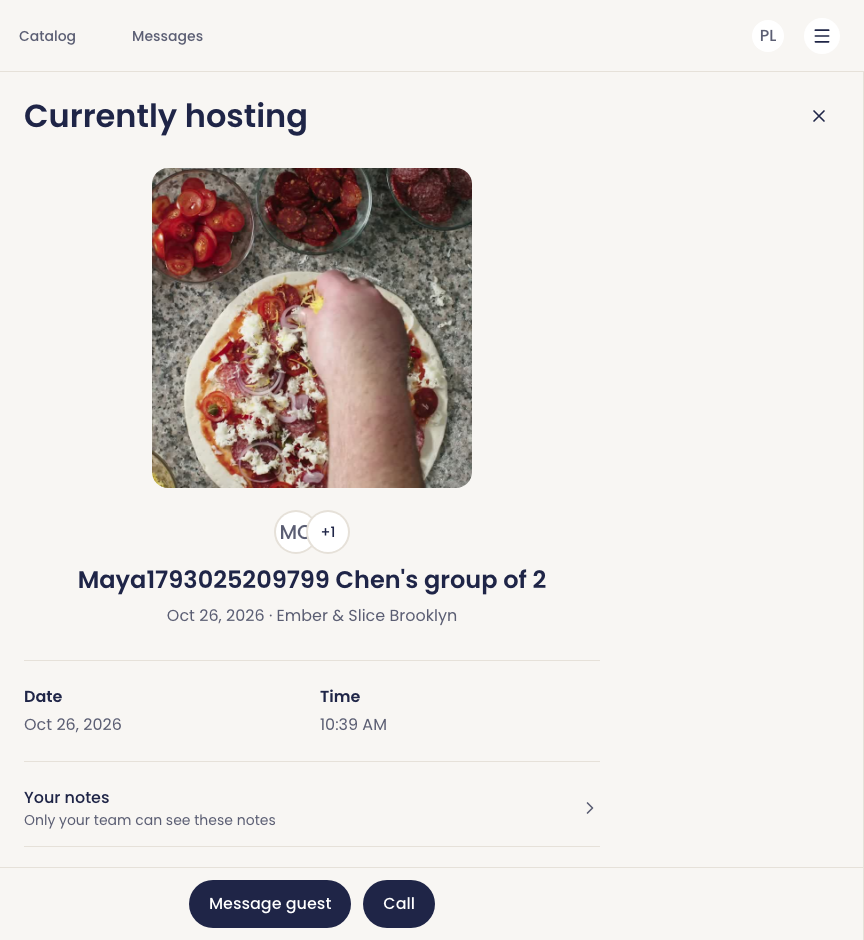
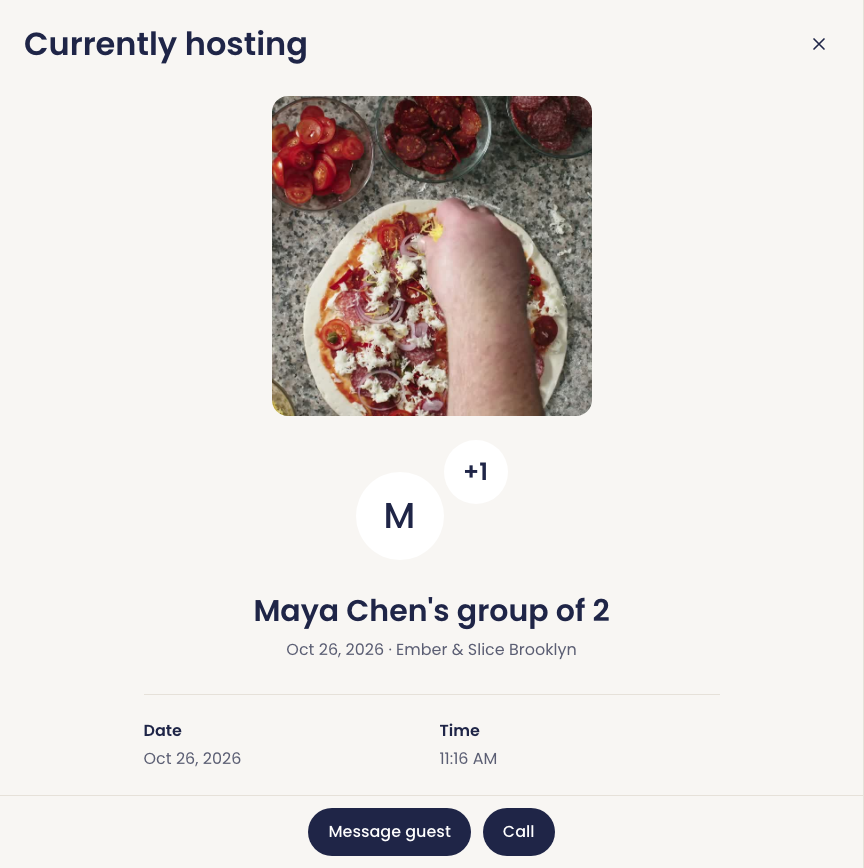
Match the host party header proportions and center its record column

diff --git a/tests/e2e/guest-thread-state.spec.ts b/tests/e2e/guest-thread-state.spec.ts
@@ -563,7 +563,7 @@ test('Today uses the CMS patterns and sends one reservation change request', asy
   await expectStatus(await page.request.put(reservationConfig,{data:{duration_minutes:60,expected_updated_at:policy.updated_at}}),200)
 
   const now = Date.now()
-  const firstName = `Maya${now}`
+  const firstName = 'Maya'
   const guestName = `${firstName} Chen`
   const guestEmail = `maya-${now}@example.test`
   const availability = await page.request.get('/api/public/reservations/availability', {
@@ -595,7 +595,7 @@ test('Today uses the CMS patterns and sends one reservation change request', asy
   const bookingIds: string[] = []
   for (const [name, email, plan] of [
     [guestName, guestEmail, todaySlot!],
-    [`Priya${now} Patel`, `priya-${now}@example.test`, now + 86_400_000],
+    ['Priya Patel', `priya-${now}@example.test`, now + 86_400_000],
   ] as const) {
     let date: string
     let time: string
@@ -658,7 +658,7 @@ test('Today uses the CMS patterns and sends one reservation change request', asy
   expect(localDateAt(new Date(upcomingCard!.occurrenceAt!), timezone) > localToday.date).toBe(true)
   expect(upcomingFeed.cards.some(card => card.id === `reservation:${bookingIds[0]}`)).toBe(false)
 
-  await page.getByTestId('today-card').filter({ hasText: reviewCard!.headline }).click()
+  await page.locator(`[data-card-id="${reviewCard!.id}"]`).click()
   await expect(page.getByRole('heading', { name: 'Currently hosting', exact: true })).toBeVisible()
   await expect(page.getByText(guestName, { exact: true }).first()).toBeVisible()
   await expect(page.getByText(guestEmail, { exact: true })).toHaveCount(0)
@@ -685,18 +685,34 @@ test('Today uses the CMS patterns and sends one reservation change request', asy
     await expect(picture).toHaveAttribute('src', summary.resourceImageUrl!)
     await expect(picture).toHaveJSProperty('complete', true)
     expect(await picture.evaluate(image => (image as HTMLImageElement).naturalWidth), 'The actual location picture loads').toBeGreaterThan(0)
-    const guestGroup = detailPanel.getByLabel(`${summary.partySize! - 1} other guests`, { exact: true }).locator('..')
+    const otherGuests = detailPanel.getByLabel(`${summary.partySize! - 1} other guests`, { exact: true })
+    const guestGroup = otherGuests.locator('..')
+    const mainAvatar = guestGroup.locator(':scope > [data-slot="root"]')
     await expect(guestGroup).toBeInViewport()
+    await expect(mainAvatar).toHaveCount(1)
     if (summary.guestImageUrl) await expect(guestGroup.getByAltText(summary.guestName!, { exact: true })).toHaveAttribute('src', summary.guestImageUrl)
+    else await expect(mainAvatar).toHaveText(summary.guestName!.trim().slice(0, 1))
     const pictureBounds = (await picture.boundingBox())!
     const guestBounds = (await guestGroup.boundingBox())!
+    const avatarBounds = (await mainAvatar.boundingBox())!
+    const countBounds = (await otherGuests.boundingBox())!
     const identityBounds = (await identity.boundingBox())!
+    const paneBounds = (await detailPanel.boundingBox())!
+    const paneCenter = paneBounds.x + paneBounds.width / 2
+    expect(avatarBounds.width, 'The guest is dominant within the group').toBeGreaterThan(countBounds.width)
+    expect(avatarBounds.height).toBeGreaterThan(countBounds.height)
+    expect(avatarBounds.height).toBe(avatarBounds.width)
+    expect(countBounds.height).toBe(countBounds.width)
+    expect(countBounds.y, 'The smaller guest count is raised beside the guest').toBeLessThan(avatarBounds.y)
+    expect(countBounds.x + countBounds.width / 2).toBeGreaterThan(avatarBounds.x + avatarBounds.width / 2)
     expect(pictureBounds.width, 'The property photo leads as a substantial cover, not an avatar thumbnail').toBeGreaterThanOrEqual(280)
     expect(pictureBounds.width).toBeLessThanOrEqual((await detailPanel.boundingBox())!.width)
     expect(pictureBounds.height).toBe(pictureBounds.width)
     expect(pictureBounds.y + pictureBounds.height).toBeLessThanOrEqual(guestBounds.y)
     expect(guestBounds.y + guestBounds.height).toBeLessThanOrEqual(identityBounds.y)
-    expect(Math.abs(pictureBounds.x + pictureBounds.width / 2 - identityBounds.x - identityBounds.width / 2)).toBeLessThanOrEqual(1)
+    expect(Math.abs(pictureBounds.x + pictureBounds.width / 2 - paneCenter)).toBeLessThanOrEqual(1)
+    expect(Math.abs(guestBounds.x + guestBounds.width / 2 - paneCenter)).toBeLessThanOrEqual(1)
+    expect(Math.abs(identityBounds.x + identityBounds.width / 2 - paneCenter), 'The record header centers in its visible pane').toBeLessThanOrEqual(1)
     expect(await identity.evaluate(element => getComputedStyle(element).textAlign)).toBe('center')
     const paymentInfo = detailPanel.getByRole('heading', { name: 'Payment info', exact: true })
     await expect(paymentInfo).toHaveCount(summary.payments?.length ?? 0)
@@ -732,7 +748,7 @@ test('Today uses the CMS patterns and sends one reservation change request', asy
     const footerBounds = (await footer.boundingBox())!
     const messageBefore = await message.boundingBox()
     const callBefore = await call.boundingBox()
-    expect(Math.abs((messageBefore!.x + callBefore!.x + callBefore!.width) / 2 - identityBounds.x - identityBounds.width / 2), 'Contact actions align with the bounded record, including beside Today').toBeLessThanOrEqual(1)
+    expect(Math.abs((messageBefore!.x + callBefore!.x + callBefore!.width) / 2 - paneCenter), 'Contact actions center in the same visible pane as the record header').toBeLessThanOrEqual(1)
     const maximum = await body.evaluate(element => element.scrollHeight - element.clientHeight)
     expect(maximum, 'The actual reservation summary has a scroll end at this viewport').toBeGreaterThan(0)
     await page.mouse.move(bodyBounds.x + 4, bodyBounds.y + bodyBounds.height / 2)
@@ -752,7 +768,7 @@ test('Today uses the CMS patterns and sends one reservation change request', asy
     // Show the actual desktop detail pane without publishing copied
     // conversations elsewhere in Today's local fixture. Mobile is this record.
     const detailBounds = (await detailPanel.boundingBox())!
-    await page.screenshot({ path: capture, ...(width === 1728 ? { clip: { x: detailBounds.x, y: 0, width: detailBounds.width, height: 940 } } : { fullPage: false }) })
+    await page.screenshot({ path: capture, ...(width === 1728 ? { clip: detailBounds } : { fullPage: false }) })
     await testInfo.attach(`reservation-details-${width}`, { path: capture, contentType: 'image/png' })
   }
   await page.setViewportSize(priorViewport)

diff --git a/components/dashboard/StayDetails.vue b/components/dashboard/StayDetails.vue
@@ -1,7 +1,7 @@
 <template>
   <!-- One stay at a place to stay: who is coming, when, and what the host has collected. -->
   <!-- Inside the guest thread's leaf, which owns the column, it is the body alone. -->
-  <component :is="embedded ? 'div' : DashboardIndexPanel" v-bind="embedded ? {} : { id: 'stay-details', title, column: 'leaf' }">
+  <component :is="embedded ? 'div' : DashboardIndexPanel" v-bind="embedded ? {} : { id: 'stay-details', title, column: 'record' }">
     <template #right>
       <UButton v-if="!embedded && recordLevel.to.value" :to="recordLevel.to.value" icon="i-lucide-x" color="neutral" variant="ghost" aria-label="Close stay details" class="max-lg:hidden" />
     </template>
@@ -21,9 +21,12 @@
       <UAlert v-if="!personalScope && guest.state === 'missing'" class="mb-5" color="error" variant="soft" icon="i-lucide-circle-alert" title="Guest name missing" description="This stay was made in KrabiClaw, which requires a guest name, but it has none." />
       <div class="flex flex-col items-center text-center">
         <img v-if="homeImageUrl" :src="homeImageUrl" :alt="recordHome?.name ?? ''" class="mb-6 aspect-square w-full max-w-80 shrink-0 rounded-2xl object-cover">
-        <UAvatar v-if="guest.state === 'named'" :alt="guest.name" size="xl" class="mb-4 shrink-0" />
+        <div v-if="!personalScope && guest.state === 'named'" class="relative mb-8 shrink-0" :class="guestCount > 1 ? 'h-30 w-38' : 'size-22'">
+          <UAvatar :alt="guest.name" :text="guest.name.slice(0, 1).toUpperCase()" size="3xl" class="absolute bottom-0 left-0 size-22 text-4xl" :ui="{ fallback: 'text-highlighted' }" />
+          <span v-if="guestCount > 1" class="absolute right-0 top-0 flex size-16 items-center justify-center rounded-full bg-elevated text-2xl font-semibold text-highlighted" :aria-label="`${guestCount - 1} other guests`">+{{ guestCount - 1 }}</span>
+        </div>
         <h2 v-if="personalScope && home" class="text-2xl font-semibold text-highlighted">{{ home.name }}</h2>
-        <h2 v-else-if="guest.state === 'named'" class="text-2xl font-semibold text-highlighted">{{ guest.name }}</h2>
+        <h2 v-else-if="guest.state === 'named'" class="max-w-sm text-3xl font-semibold leading-tight text-highlighted">{{ guest.name }}</h2>
         <h2 v-else-if="guest.state === 'not-provided'" class="text-2xl font-semibold text-muted">Name not provided by {{ channelName }}</h2>
         <h2 v-else-if="guest.state === 'missing'" class="text-2xl font-semibold text-error">Guest name missing</h2>
         <p v-if="personalScope && home" class="mt-1 text-base text-muted">{{ home.organization_name }}</p>
@@ -290,6 +293,7 @@ const partyLabel = computed(() => {
   if (value.infants) parts.push(`${value.infants} ${value.infants === 1 ? 'infant' : 'infants'}`)
   return parts.join(', ')
 })
+const guestCount = computed(() => stay.value ? stay.value.adults + stay.value.children + stay.value.infants : 0)
 const statusLabel = computed(() => !stay.value ? 'Stay' : stay.value.status === 'cancelled' ? 'Cancelled' : stay.value.status === 'pending' ? 'Pending' : 'Confirmed')
 
 function money(minor: number): string {

diff --git a/components/dashboard/BookingDetails.vue b/components/dashboard/BookingDetails.vue
@@ -28,11 +28,11 @@
         <!-- The business reads who is coming; the account reads what it booked and where. A purchase is what was bought, for both. -->
         <div class="text-center">
           <img v-if="booking.resourceImageUrl" :src="booking.resourceImageUrl" alt="" class="mx-auto mb-6 aspect-square w-full max-w-80 rounded-2xl bg-elevated object-cover">
-          <div v-if="!personalScope && !purchase && booking.guestName" class="mb-3 flex items-center justify-center -space-x-2">
-            <UAvatar :src="booking.guestImageUrl || undefined" :alt="booking.guestName" size="xl" class="ring-2 ring-default" />
-            <span v-if="booking.partySize && booking.partySize > 1" class="flex size-10 items-center justify-center rounded-full bg-elevated text-sm font-medium text-highlighted ring-2 ring-default" :aria-label="`${booking.partySize - 1} other guests`">+{{ booking.partySize - 1 }}</span>
+          <div v-if="!personalScope && !purchase && booking.guestName" class="relative mx-auto mb-8" :class="booking.partySize && booking.partySize > 1 ? 'h-30 w-38' : 'size-22'">
+            <UAvatar :src="booking.guestImageUrl || undefined" :alt="booking.guestName" :text="booking.guestName.slice(0, 1).toUpperCase()" size="3xl" class="absolute bottom-0 left-0 size-22 text-4xl" :ui="{ fallback: 'text-highlighted' }" />
+            <span v-if="booking.partySize && booking.partySize > 1" class="absolute right-0 top-0 flex size-16 items-center justify-center rounded-full bg-elevated text-2xl font-semibold text-highlighted" :aria-label="`${booking.partySize - 1} other guests`">+{{ booking.partySize - 1 }}</span>
           </div>
-          <h2 class="break-words text-2xl font-semibold text-highlighted">{{ personalScope || purchase ? booking.resourceTitle : partyTitle }}</h2>
+          <h2 class="break-words font-semibold text-highlighted" :class="personalScope || purchase ? 'text-2xl' : 'mx-auto max-w-sm text-3xl leading-tight'">{{ personalScope || purchase ? booking.resourceTitle : partyTitle }}</h2>
           <p class="mt-2 break-words text-base text-muted">{{ subline }}</p>
         </div>
 
@@ -281,7 +281,7 @@ const editorPath = computed(() => props.editorPath)
 // Owning the column means owning its header; inside the thread's leaf it is that leaf's body.
 const chrome = computed(() => (props.embedded
   ? {}
-  : { id: props.personalScope ? 'account-booking-details' : 'booking-details', title: pageTitle.value, column: 'leaf' as const }))
+  : { id: props.personalScope ? 'account-booking-details' : 'booking-details', title: pageTitle.value, column: 'record' as const }))
 /** Which note a leaf is editing, or none for a new one. */
 const openNoteId = ref<string | null>(null)
 const selectedNote = computed(() => booking.value?.notes.find(note => note.id === openNoteId.value))

diff --git a/lib/components/workspace/dashboard/dashboardPanelContext.ts b/lib/components/workspace/dashboard/dashboardPanelContext.ts
@@ -7,13 +7,15 @@ import type { ComputedRef, InjectionKey } from 'vue'
  * A grid, a table, a calendar or a chart names none and takes the frame, as
  * Airbnb's listings, calendar and insights do.
  *
- * Content always starts at the panel's gutter, the same edge as the top nav,
- * and is never centred. Below `lg` a level is the whole screen or a drawer and
+ * Editing content starts at the panel's gutter, the same edge as the top nav.
+ * A record summary centres its bounded column inside its own pane. Below `lg`
+ * a level is the whole screen or a drawer and
  * uses all of it; from `lg` a standalone column stops a line running on.
  */
 export const dashboardColumnWidths = {
   leaf: 'lg:max-w-xl',
   reading: 'lg:max-w-3xl',
+  record: 'lg:mx-auto lg:max-w-xl',
 } as const
 
 export type DashboardColumn = keyof typeof dashboardColumnWidths

diff --git a/DESIGN.md b/DESIGN.md
@@ -547,7 +547,8 @@ and desktop widths before treating a mapping as complete.
 **Everything starts at the gutter.** Nuxt UI's panel gutter (`px-4 sm:px-6`,
 `dashboardGutterClass`) is the one horizontal edge, the same as the top nav's:
 Back or ✕, the title, the rows, the fields and Cancel all start on it, and
-nothing is centred. A component inside a panel adds no outer padding, scroll
+editing content keeps that edge. A record summary centres its bounded content
+and contact actions within its own pane. A component inside a panel adds no outer padding, scroll
 container or column of its own; a row whose highlight reaches the pane's edge
 pulls itself into the gutter (`-mx-4`) so its text keeps the edge. A level that
 scrolls itself (`fill`) pads its own rows with the gutter. Every footer is
@@ -587,7 +588,8 @@ Plan and billing and Earnings do: its rows are leaves beside it and `autoOpen` n
 Only a list of records with nothing of its own to open — Notifications, Past
 activity, Paid, Platform accounts — or a true single-concern screen (Menu, a
 booking's notes, a calendar day) stands alone as a column, and says which in
-`DashboardIndexPanel column`: `reading` for the records, `leaf` for the screen.
+`DashboardIndexPanel column`: `reading` for lists of records, `leaf` for the
+screen, `record` for a booking or stay summary with its column centred in the pane.
 Beside a child every index fills its own pane. Standalone widths live in
 `dashboardColumnWidths`; a page never states one. A column's title heads it,
 as a leaf's does. Every level title is `dashboardTitleClass`.
@@ -1092,8 +1094,11 @@ nowhere to put.
 
 **The picture leads.** Rows lead with a thumbnail; a leaf leads with the image
 large when editing the photo itself. A booking or stay summary places its real
-resource photo in a substantial square cover above the guest avatar and party identity,
-then dates and arrival facts. Private team notes precede guest details and the
+resource photo in a large square cover above the guest avatar and party identity.
+The host's primary avatar is prominent, with a smaller guest-count circle
+raised beside it; the party name leads the dates and resource name. The whole
+header shares the record column's centre within its visible pane. Arrival
+facts follow the identity. Private team notes precede guest details and the
 cancellation policy; payment, management and booking metadata follow. Message
 and Call remain at the foot of the pane while its facts scroll. Embedded thread
 details retain those actions at the end of their existing leaf. Guest requests
